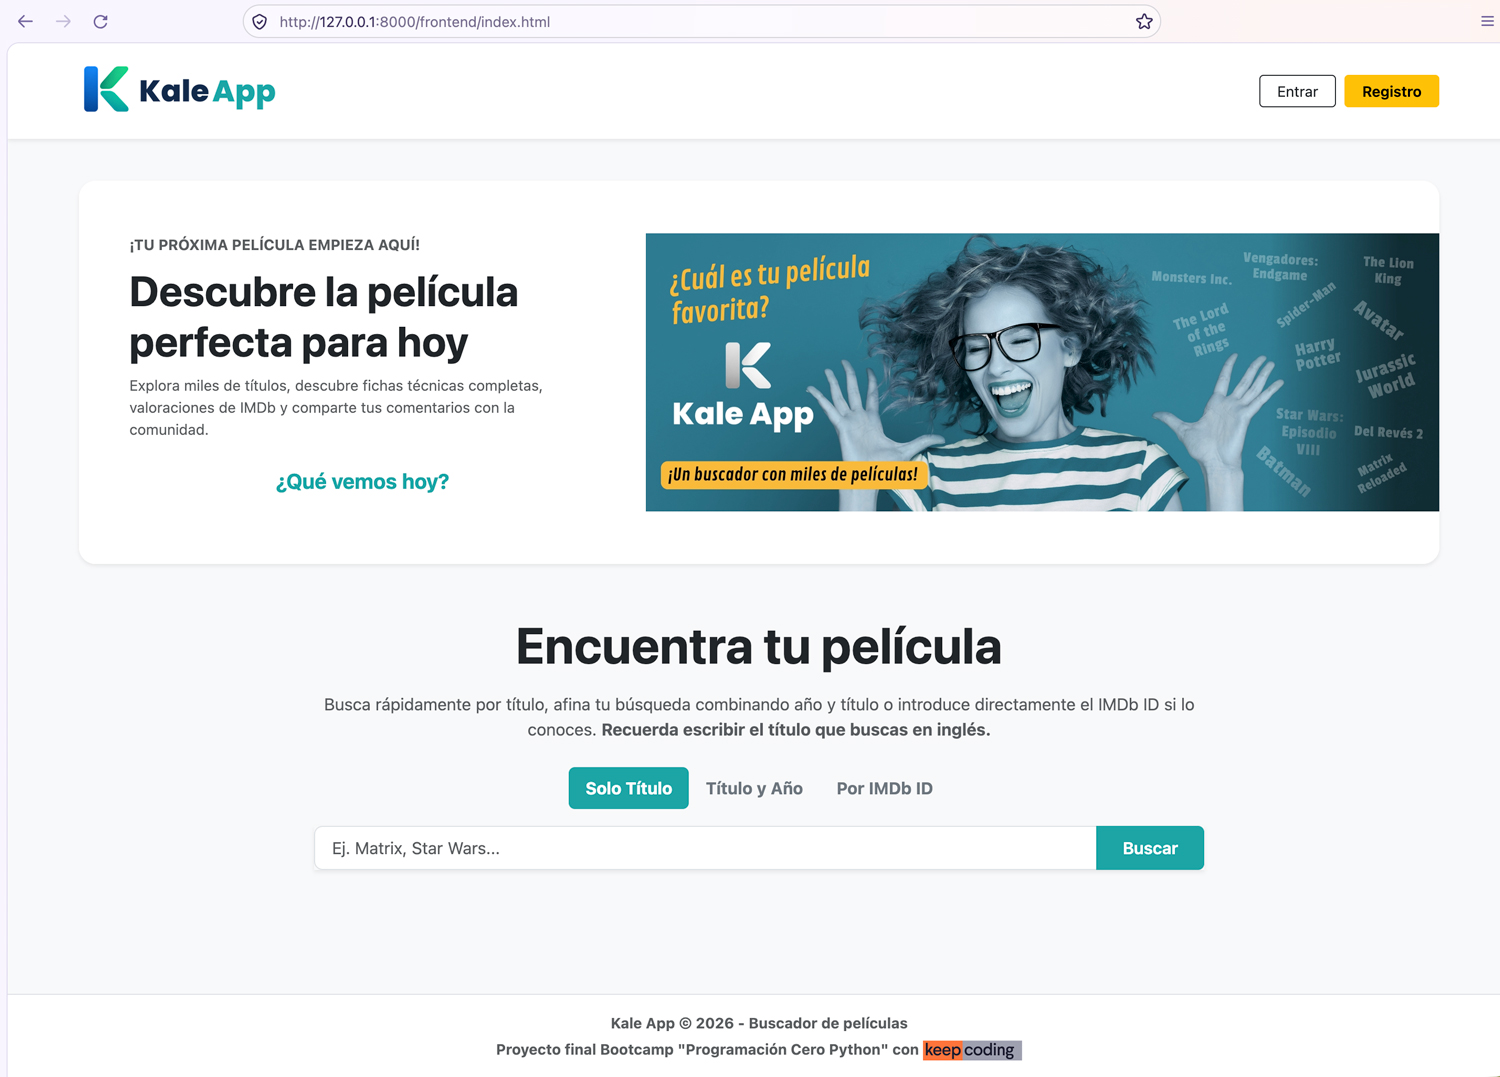
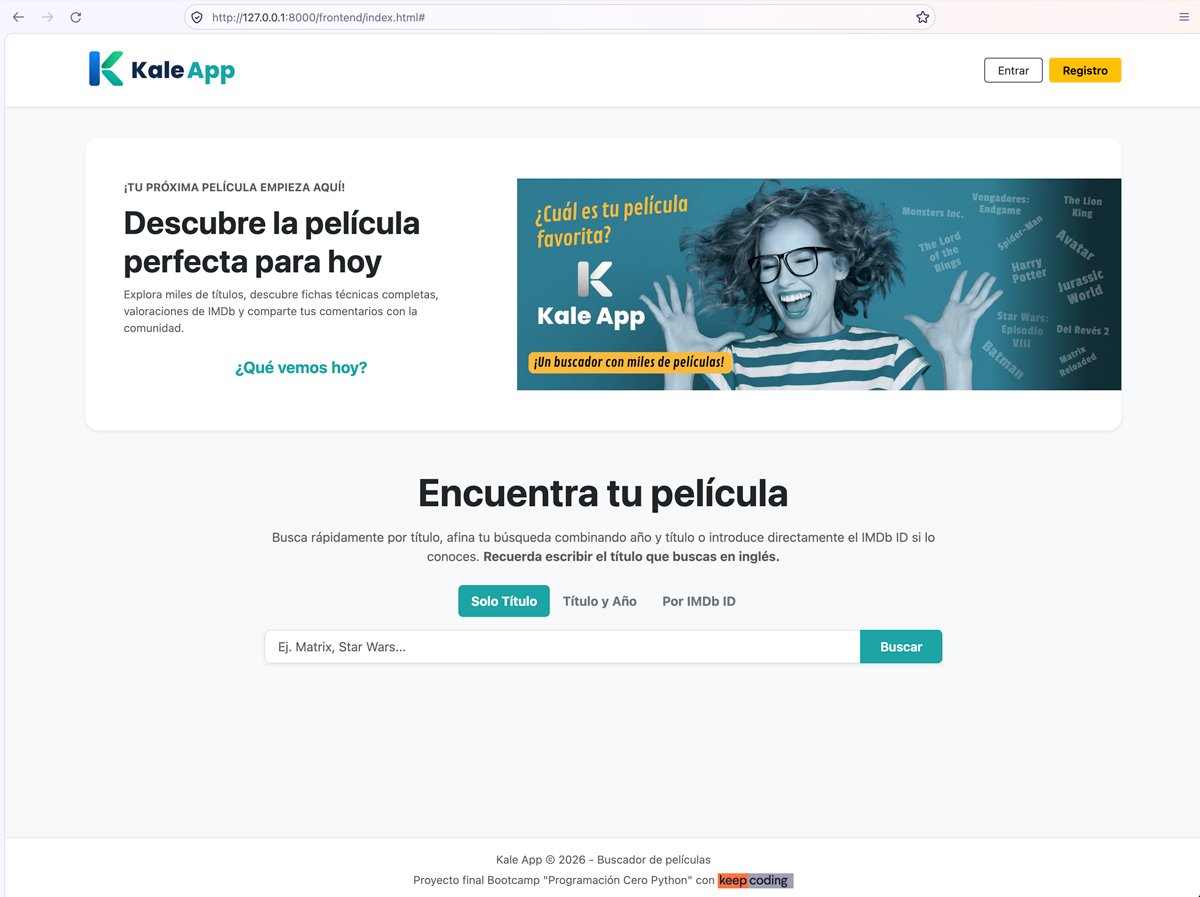
Actualizando readme.md

diff --git a/frontend/index.html b/frontend/index.html
@@ -385,7 +385,7 @@
 
 
 <!-- PIE DE PÁGINA -->
-<footer class="bg-white text-center py-3 text-muted small border-top mt-auto">
+<footer class="bg-white text-center py-3 text-muted small border-top mt-auto fw-normal">
     <div class="container d-flex flex-column justify-content-center align-items-center gap-1">
         <!-- Primera línea -->
         <div>

diff --git a/readme.md b/readme.md
@@ -1,4 +1,9 @@
-# Proyecto final Bootcamp "Aprender a programar desde cero ed. XXVI con Keepcoding": aplicación web para buscar películas por nombre, nombre & año e ID
+# Proyecto final Bootcamp "Aprender a programar desde cero ed. XXVI con Keepcoding"
+
+**Kale App** es una aplicación web de búsqueda, comentarios y valoración de películas desarrollada en Python para el Bootcamp de programación cero con Python de Keepcoding. La lógica se plantea bajo la estructura MVC (Modelo-Vista-Controlador) que combina el backend modular en FastAPI y base de datos SQLite, conectada con la OMDb API (https://www.omdbapi.com/), junto a una interfaz frontend responsiva construida con [Bootstrap](https://getbootstrap.com/) y JavaScript.
+
+La aplicación cuenta con un diseño personalizado, un sistema de autenticación de usuarios, comentarios interactivos con calificaciones por estrellas y un mecanismo de control de errores para garantizar una experiencia visual clara y agradable para el usuario (UX).
+
 
 ## Aspecto visual: 
 
@@ -70,8 +75,8 @@ con ```'onerror'``` captura el error HTTP 404 de la imagen externa y carga mi po
 
 **Logo en colores corporativos y blanco:** 
 
-![Kale App logo](/frontend/static/imgs/logo-kale-app.png) <br>
-![Kale App logo](/frontend/static/imgs/logo-kale-app-blanco.png) <br>
+![Kale App logo](/frontend/static/readme_imgs/logo-kale-app-400px.jpg) <br>
+![Kale App logo](/frontend/static/readme_imgs/logo-kale-app-blanco-400px.jpg) <br>
 
 
 **Favicon:** 
@@ -163,7 +168,8 @@ Una vez tengamos la API KEY, podemos:
 - Framework CSS [Bootstrap](https://getbootstrap.com/)    
 - Link para API externa de información de películas https://www.omdbapi.com/
 - Utilizar el patrón para la arquitectura del proyecto MVC.
-- Implementar control de errores.
+- Implementación de control de errores.
+- Implementación de carpeta ```test``` y pruebas con ```pytest```
 
 
 ## Detalles para ejecutar  *"Kale App - Buscador de películas"* en tu entorno
